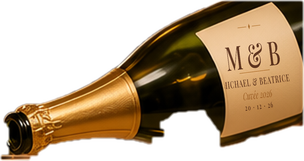
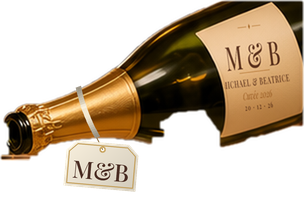
Hang an M&B tag from the bottle neck
The printed label sits just past the right edge of a portrait phone, so
guests never saw it. An ivory ribbon round the neck now carries a cream
tag with a gold border and "M&B" in Playfair, drawn into bottle.png so it
moves with the bottle. It hangs just right of the flute and stays in
frame on 360, 390 and 412 px phones and in the desktop frame. The layer
grows from 161 to 200 px tall; the rotation pivot is kept in place.

Claude-Session: https://claude.ai/code/session_017iYQjUHEJhgYxkvwNTkQm2

diff --git a/index.html b/index.html
@@ -52,7 +52,7 @@ button,a{font:inherit}
 html:not(.js) .hero-photo-full{clip-path:none!important}
 .bubbles{position:absolute;inset:0;z-index:2;width:100%;height:100%;pointer-events:none}
 /* the bottle: its own layer, placed in photo coordinates, tipped in from the top right by script */
-.bottle{position:absolute;z-index:1;opacity:0;pointer-events:none;transform-origin:88% 40%;will-change:transform,opacity}
+.bottle{position:absolute;z-index:1;opacity:0;pointer-events:none;transform-origin:88% 32%;will-change:transform,opacity}
 .hero.still .stage,.hero.still .btn.pulse{animation-play-state:paused}
 .btn.pulse{animation:ring 2.6s ease-out infinite}
 @keyframes ring{0%{box-shadow:0 0 0 0 rgba(214,182,118,.65)}70%{box-shadow:0 0 0 14px rgba(214,182,118,0)}100%{box-shadow:0 0 0 14px rgba(214,182,118,0)}}
@@ -241,7 +241,7 @@ html:not(.js) .hero-photo-full{clip-path:none!important}
   <div class="stage" id="stage">
     <img class="hero-photo" id="photoEmpty" src="./dinner-background-empty.jpg" alt="" width="1024" height="1536" fetchpriority="high">
     <img class="hero-photo hero-photo-full" id="photoFull" src="./dinner-background.jpg" alt="" width="1024" height="1536" fetchpriority="high" style="clip-path:inset(100% 0 0 0)">
-    <img class="bottle" id="bottle" src="./bottle.png" alt="" width="304" height="161" decoding="async">
+    <img class="bottle" id="bottle" src="./bottle.png" alt="" width="304" height="200" decoding="async">
     <canvas class="bubbles" id="bubbles" aria-hidden="true"></canvas>
   </div>
   <audio id="music" src="./dinner-music.mp3" loop preload="none"></audio>
@@ -494,7 +494,7 @@ html:not(.js) .hero-photo-full{clip-path:none!important}
   var BASE_X=718,BASE_Y=558;                                                    /* image px: where the foot of the glass meets the table */
   var IMPACT_X=713;                                             /* image px: where the stream lands */
   var MOUTH_X=723,MOUTH_Y=152;                                  /* image px: the bottle's mouth when at rest */
-  var BOTTLE={x:718,y:2,w:304,h:161};                           /* image px: the bottle layer's box */
+  var BOTTLE={x:718,y:2,w:304,h:200};                           /* image px: the bottle layer's box, the neck tag included */
   var bottle=document.getElementById('bottle');
   var drops=[];
   function liquidTop(){return pour.done?SURFACE:Math.max(SURFACE,pour.line);}
